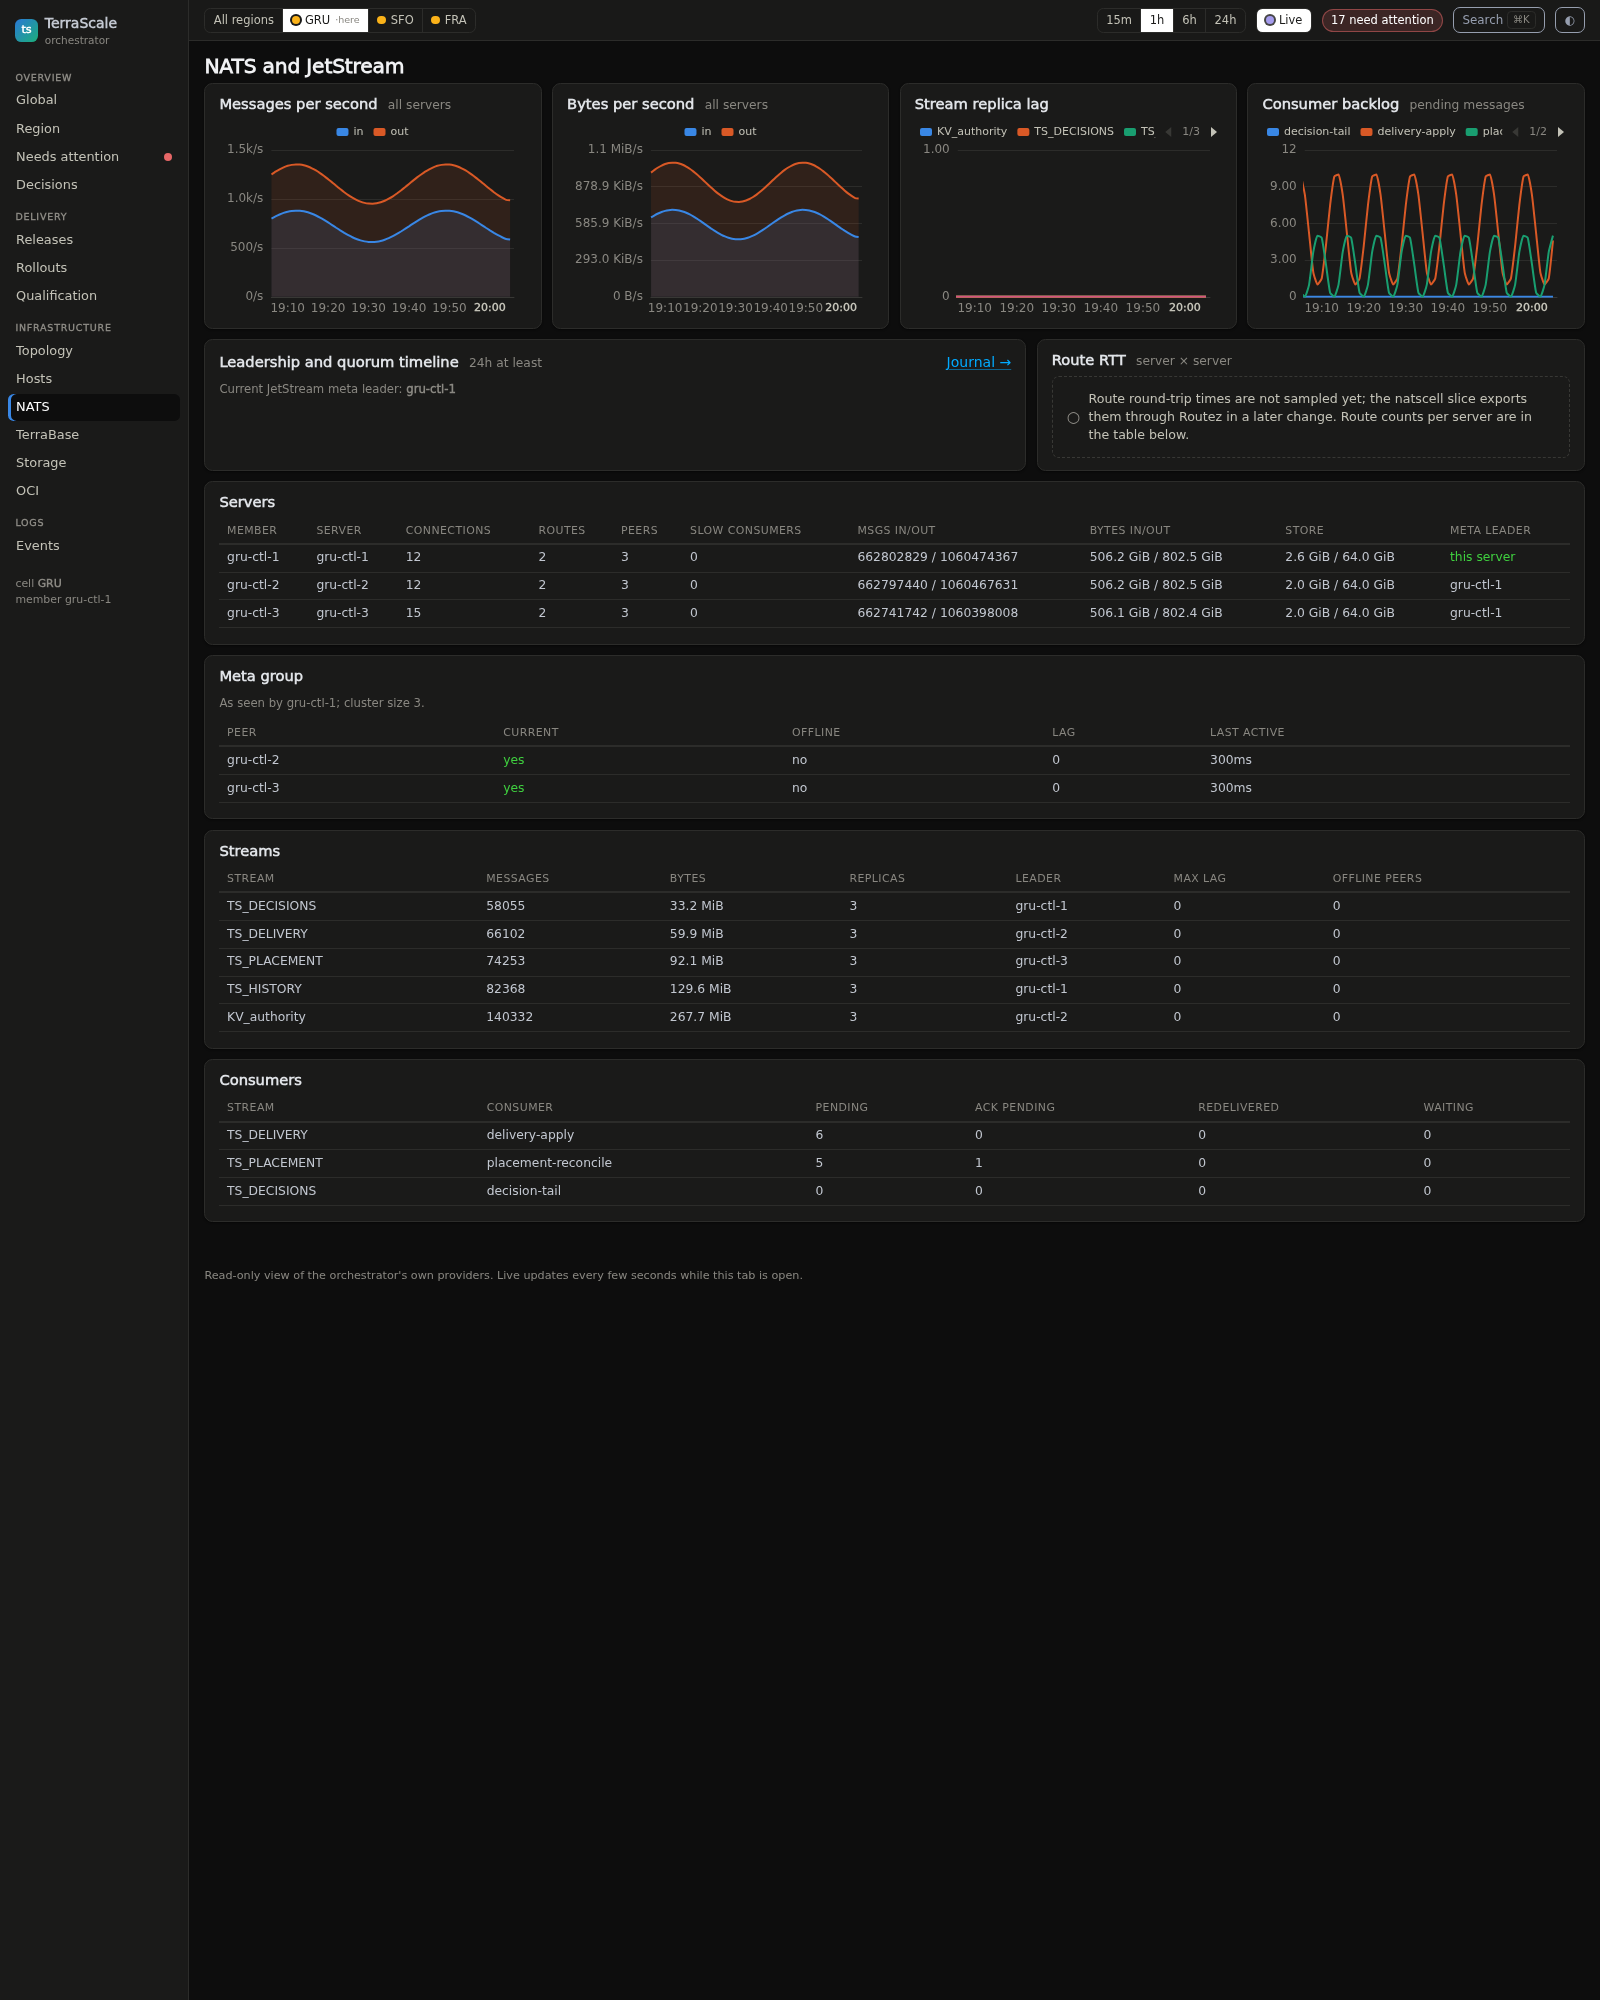
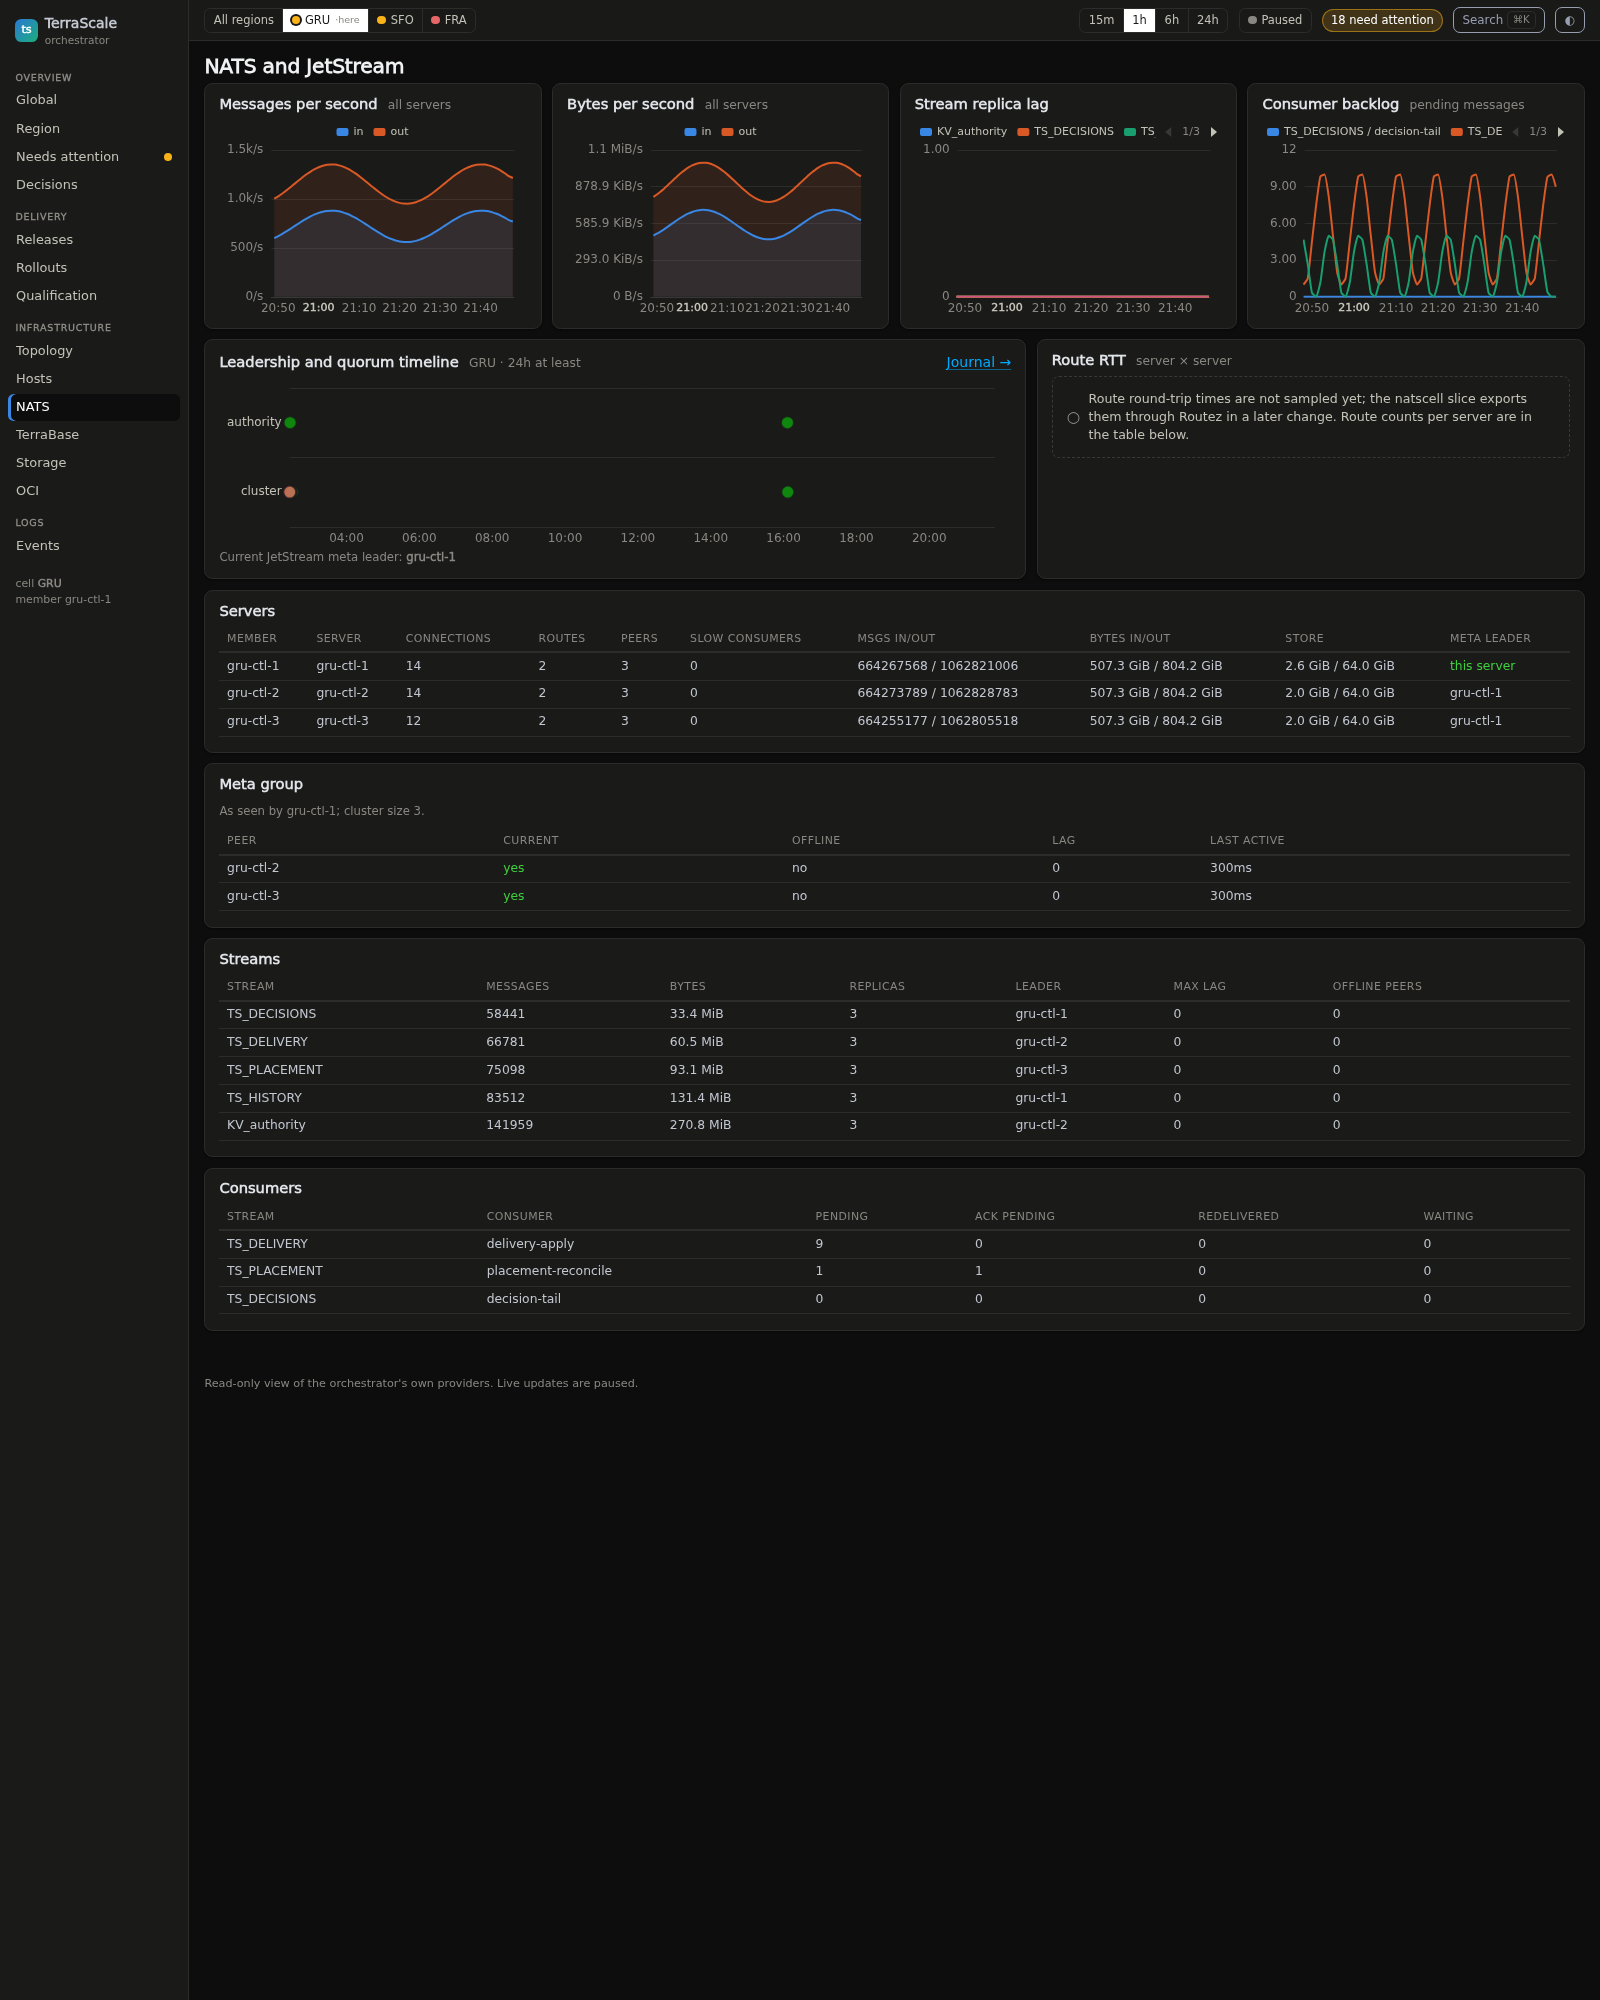
Regenerate the dashboard screenshots and document the region scope
Regenerated every docs/dashboard screenshot from the preview with headless
Chromium, including topology-details.png (placement-only hosts are grey,
the details panel is open) and the populated NATS leadership timeline and
region readiness card.

diff --git a/docs/dashboard/README.md b/docs/dashboard/README.md
@@ -9,13 +9,15 @@ providers; it never changes control-plane state.
 | Page | What it shows |
 |------|---------------|
 | `/` Global | Every region side by side (health score, quorum, leaders, versions, capacity, TerraBase, rollouts, open problems, latest decisions), KPI tiles with sparklines, the world map with inter-region links, what needs attention, the merged decision timeline and the 1h/24h summaries. |
-| `/region?r=<region>` | One region. This member's region shows live members, charts and events; another region shows the summary it answers over the region link. |
+| `/region?r=<region>` | One region. This member's region shows live members, charts, every member's readiness checks and events; another region shows the summary it answers over the region link. |
 | `/insights` | Ranked needs-attention list across regions: why each insight fired, its evidence against the threshold (charted when it is a history metric), the entity link and the suggested command. Toasts and the top-bar badge update live; browser notifications are opt-in. |
 | `/decisions` | The merged decision journal, filterable by region, kind, actor, status and subject; `?id=` opens a decision's whole chain with its signals, gates, rule and rejected alternatives. |
 | `/releases` | Each release's journey (CI qualified, signed, staged, canary, soak, batches, complete or rolled back) per region, and the version matrix of regions × units with drift highlighted. |
 | `/rollouts`, `/ci` | Rollout phase diagrams, release history, known-bad releases, managed TerraBase updates, qualification runs. |
 | `/topology` | Every region as a labeled group: its controllers on an inner ring (NATS routes), hosts on an outer ring (leaf connections to the meta leader) and TerraBase seats around their hosts. Other regions draw the members and seat hosts their summary reports. Edges and hosts are colored only from evidence: a route is healthy when both controllers report a full route mesh, hosts known only from placement and routes inferred from readiness stay grey (unknown), and links between two other regions are unknown. The graph is fitted and centered on load and resize; regions collapse and expand, node kinds filter from the toolbar, hover highlights neighbors and a click opens a details panel. |
 | `/members`, `/nats`, `/terrabase`, `/storage`, `/oci`, `/events` | Host time series, fleet heatmap and capacity; NATS rates, lag and backlog; seat grids, stage history and time-to-full forecasts; volumes, capacity treemap and backups; OCI rates, latency, 429s and inventory; the live event stream with search and chart click-through. |
+
+The NATS page's leadership timeline shows authority lease changes, JetStream meta leader elections and quorum losses and recoveries, as the controllers journal them. NATS, TerraBase and Storage with another region selected label their live sections as this member's region; only their decision timelines follow the selection. Pages that only show this member (Hosts, OCI, Events, Rollouts) and the all-region pages (Releases, Qualification, Topology) send the region switcher to that region's overview. Empty histories say whether nothing happened or the query failed or was partial.
 
 Every page carries the time range (`range=15m|1h|6h|24h`), the selected
 region (`r=`) and the live toggle (`live=0`) in its URL. Ctrl/⌘+K or `/`
